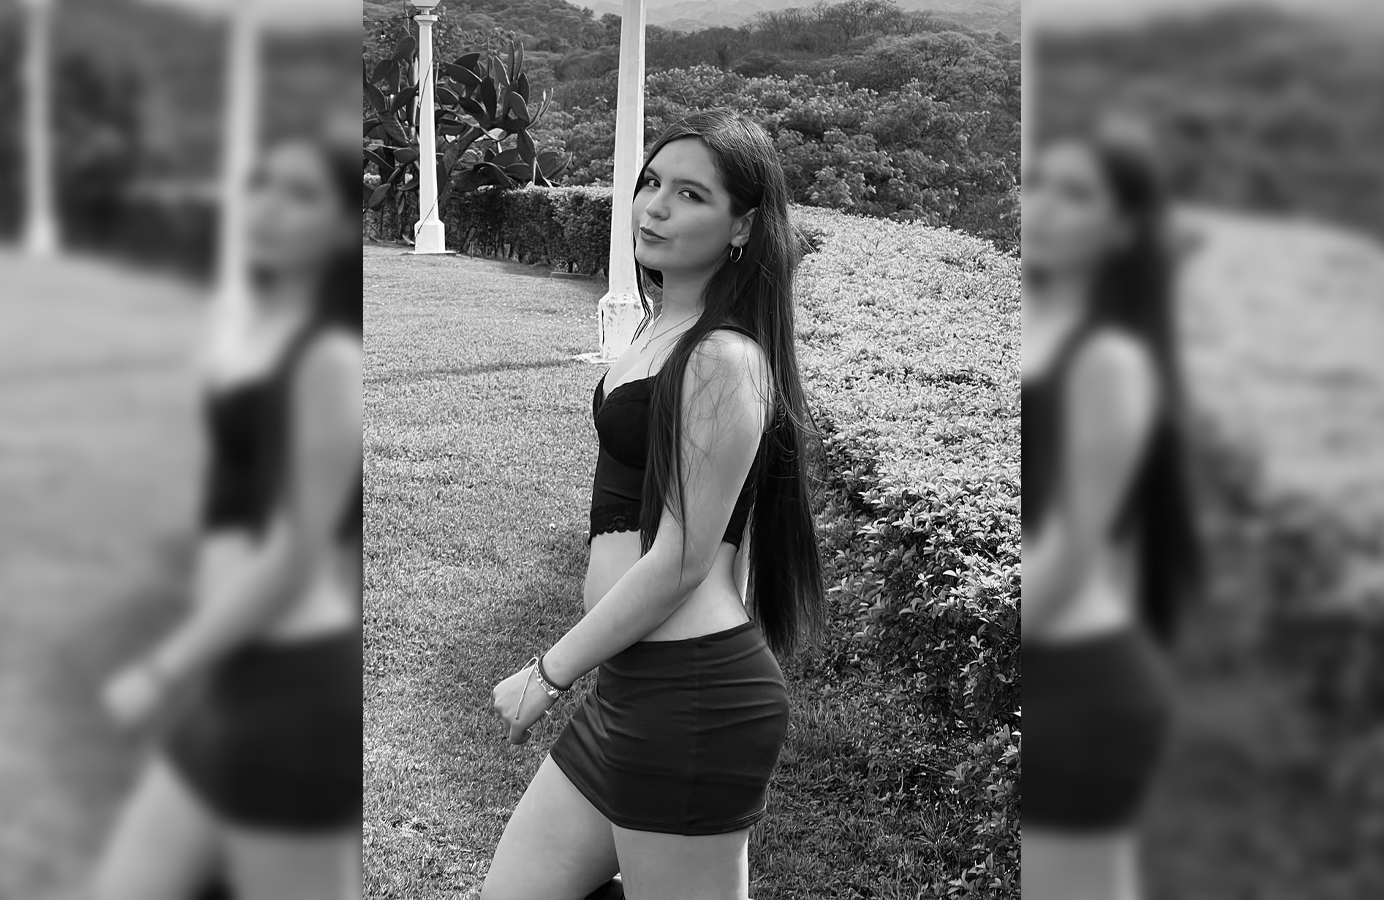
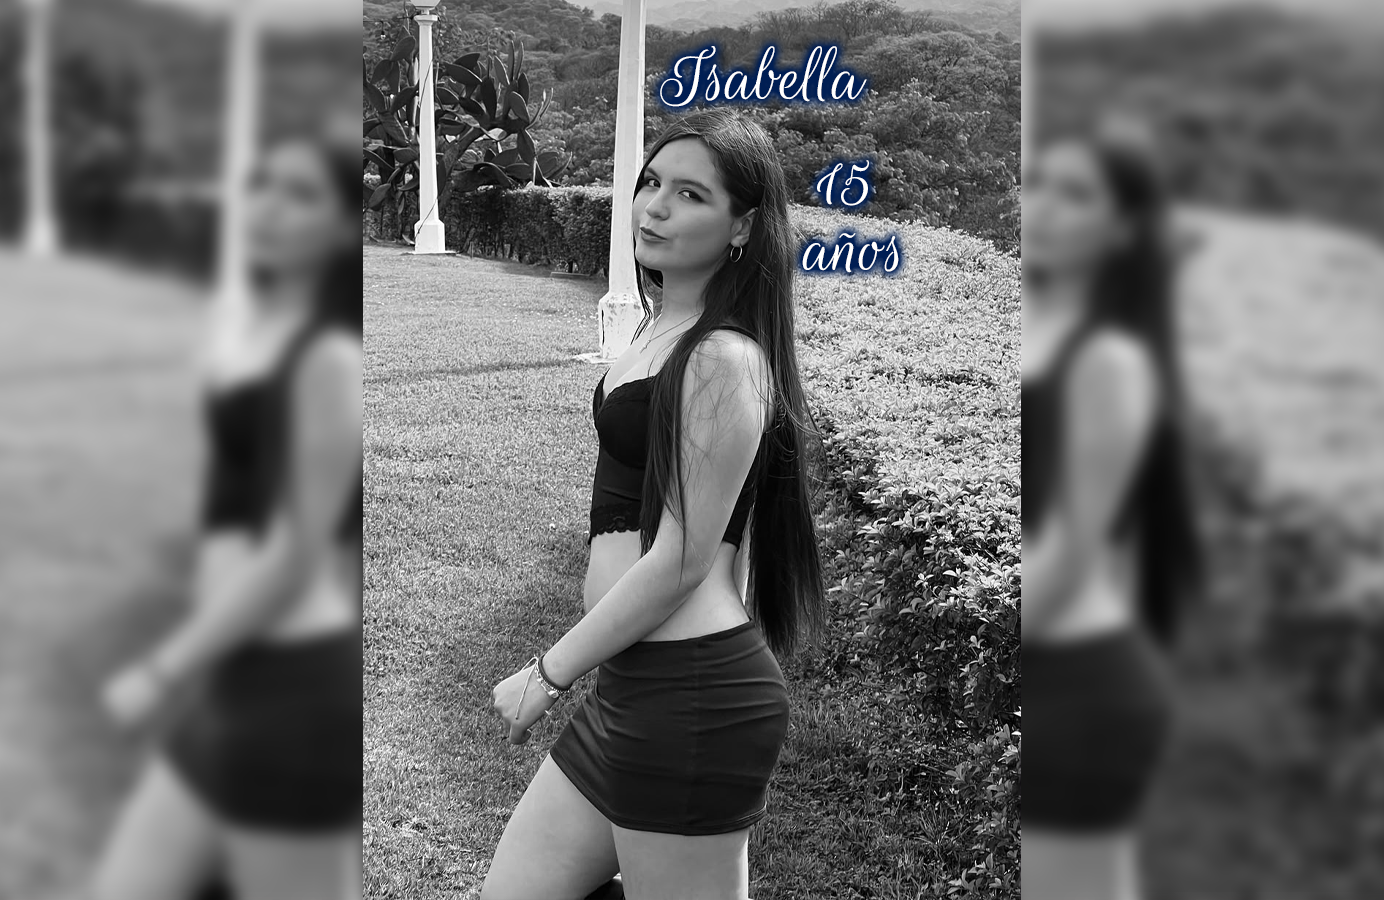
init commit

Changed region(s): [[0.466, 0.0311, 0.6214, 0.1244], [0.5592, 0.1556, 0.6525, 0.3111]]

diff --git a/css/styles.css b/css/styles.css
@@ -343,14 +343,15 @@ body {
 
 .bola__left {
     position: absolute;
-    width: 80px;
+    width: 110px;
     top: -80px;
     left: 5%;
+  
 }
 
 .bola__right__bottom {
     position: absolute;
-    width: 80px;
+    width: 110px;
     bottom: -80px;
     right: 5%;
     transform: scaleX(-1);
@@ -364,6 +365,7 @@ body {
     line-height: 1.6;
     max-width: 450px;
     width: clamp(100px, 60%, 380px);
+    margin-top: 5em;
 }
 
 .temporizador__panel {
@@ -930,13 +932,15 @@ body {
 
 .dresscode__bola--izq {
     bottom: -80px;
-    left: 5%;
+    right: 5%;
+    width: 110px;
 }
 
 .dresscode__bola--der {
     top: -80px;
-    right: 5%;
+    left: 5%;
     transform: scaleX(-1);
+    width: 110px;
 }
 
 .dresscode__imagen {
@@ -1138,12 +1142,14 @@ body {
 .regalos__bola--izq {
     top: -50px;
     left: 5%;
+    width: 110px;
 }
 
 .regalos__bola--der {
     bottom: -60px;
     right: 5%;
     transform: scaleX(-1);
+    width: 110px;
 }
 
 .regalos__titulo {
@@ -1448,7 +1454,7 @@ body.introAbierta {
 
 .musica__boton {
     position: fixed;
-    top: 25%;
+    top: 70%;
     right: 3%;
     z-index: 1500;
     width: 46px;

diff --git a/index.html b/index.html
@@ -25,7 +25,7 @@
 
     <link rel="preconnect" href="https://fonts.googleapis.com">
     <link rel="preconnect" href="https://fonts.gstatic.com" crossorigin>
-    <link rel="stylesheet" href="css/styles.css?v16">
+    <link rel="stylesheet" href="css/styles.css?v18">
 
 
 
@@ -63,10 +63,10 @@
                 </div>
             </div> -->
             <div class="portada__pie">
-                <h2 class="portada__nombre">
+                <!-- <h2 class="portada__nombre">
                     <span class="portada__linea_name">Isabella</span>
                     <span class="portada__linea">Mis XV Años</span>
-                </h2>
+                </h2> -->
             </div>
         </div>
 
@@ -538,7 +538,7 @@
     </style>
 
 
-    <script src="js/script.js?v16"></script>
+    <script src="js/script.js?v18"></script>
 </body>
 
 </html>

diff --git a/service-worker.js b/service-worker.js
@@ -5,7 +5,7 @@
    - Al SUBIR: cambia SOLO este número (v1 -> v2 -> v3...). Nada más.
    ============================================================ */
 
-const VERSION = "v16";
+const VERSION = "v18";
 const CACHE = `invitacion-${VERSION}`;
 const FUENTES = "invitacion-fuentes";
 
